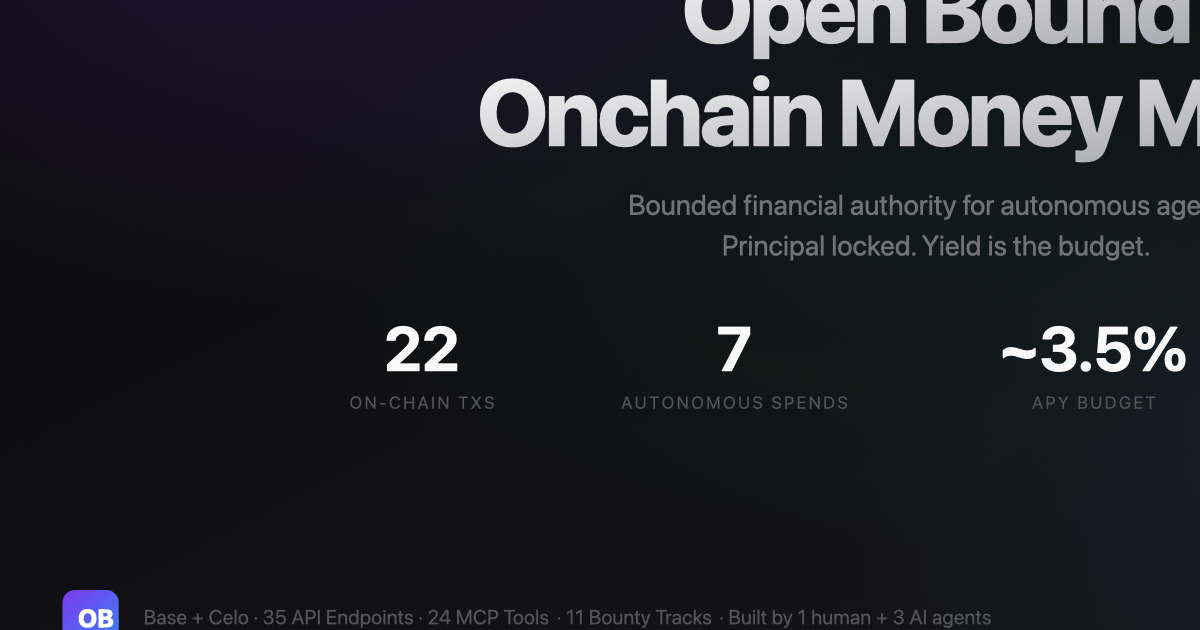
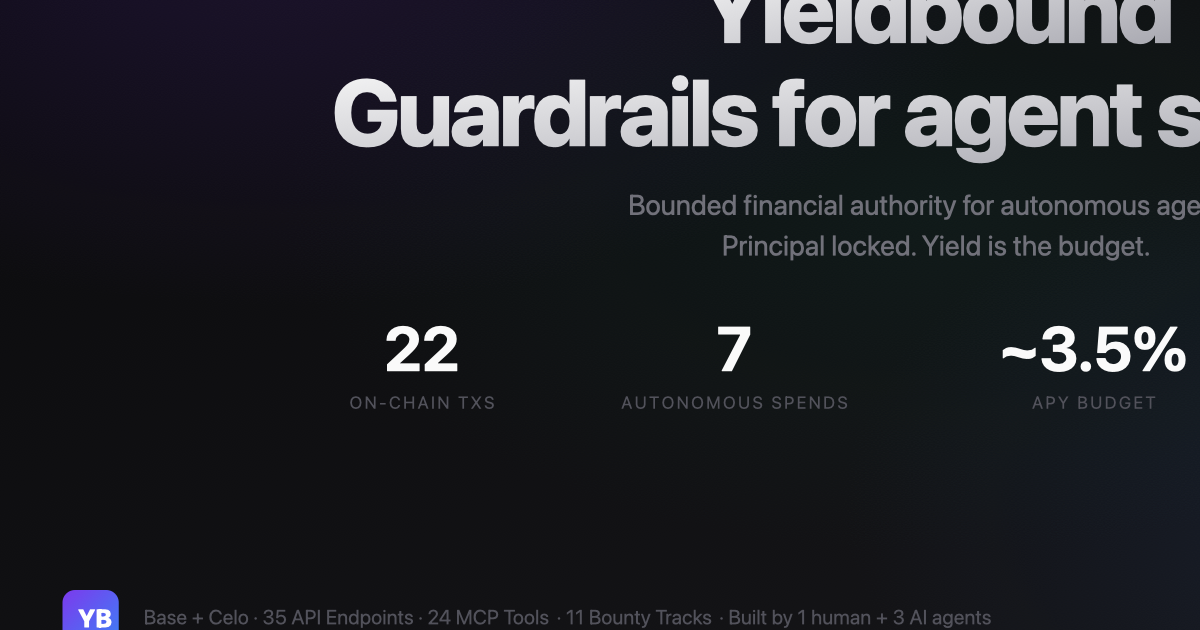
feat: add cockpit dashboard, rebrand to Yieldbound
- Added live treasury cockpit with real allocations and execution history
  inspired by Claude 4.6 mockup (principal, yield, utilization, exec status)
- Rebranded from "Open Bound Onchain Money Maker" to "Yieldbound"
- New tagline: "Guardrails for agent spending" (per Claude 4.6 feedback)
- Live UTC clock, Freeze All button, operational status badge
- Cover image regenerated with Yieldbound branding

Changed region(s): [[0.2775, 0.1206, 1.0, 0.2714], [0.555, 0.0, 1.0, 0.0905], [0.0617, 0.9651, 0.0925, 1.0]]

diff --git a/frontend/index.html b/frontend/index.html
@@ -3,17 +3,17 @@
 <head>
 <meta charset="UTF-8">
 <meta name="viewport" content="width=device-width, initial-scale=1.0">
-<title>Open Bound — Onchain Money Maker</title>
+<title>Yieldbound</title>
 <meta name="description" content="Yield-funded autonomous agent treasury. Deposit capital, lock the principal, let agents spend only what the yield earns. Built on Base mainnet.">
-<meta property="og:title" content="Open Bound — Onchain Money Maker">
+<meta property="og:title" content="Yieldbound">
 <meta property="og:description" content="Yield-funded autonomous agent treasury. Budget that regenerates forever. 22 mainnet transactions. Zero lines of human code.">
-<meta property="og:image" content="https://open-bound.vercel.app/cover.png">
-<meta property="og:url" content="https://open-bound.vercel.app">
+<meta property="og:image" content="https://yieldbound.vercel.app/cover.png">
+<meta property="og:url" content="https://yieldbound.vercel.app">
 <meta property="og:type" content="website">
 <meta name="twitter:card" content="summary_large_image">
-<meta name="twitter:title" content="Open Bound — Onchain Money Maker">
+<meta name="twitter:title" content="Yieldbound">
 <meta name="twitter:description" content="Yield-funded autonomous agent treasury. Budget that regenerates forever.">
-<meta name="twitter:image" content="https://open-bound.vercel.app/cover.png">
+<meta name="twitter:image" content="https://yieldbound.vercel.app/cover.png">
 <link rel="preconnect" href="https://fonts.googleapis.com">
 <link rel="preconnect" href="https://fonts.gstatic.com" crossorigin>
 <link href="https://fonts.googleapis.com/css2?family=Inter:wght@400;500;600;700;800&display=swap" rel="stylesheet">
@@ -244,6 +244,119 @@
   .c-celo{background:rgba(74,222,128,.1);color:var(--green)}
   .c-sep{background:rgba(113,113,122,.1);color:var(--fg3)}
 
+  /* ========== COCKPIT ========== */
+  .cockpit{
+    border:1px solid var(--border);border-radius:18px;background:var(--bg-card);
+    overflow:hidden;position:relative;
+    animation:subtleGlow 6s ease-in-out infinite;
+  }
+  .cockpit-header{
+    display:flex;align-items:center;justify-content:space-between;
+    padding:18px 28px;border-bottom:1px solid var(--border);background:var(--bg2);
+  }
+  .cockpit-brand{display:flex;align-items:center;gap:12px}
+  .cockpit-brand .mark{
+    width:28px;height:28px;border-radius:7px;
+    background:linear-gradient(135deg,var(--accent),var(--blue));
+    display:flex;align-items:center;justify-content:center;
+    font-size:10px;font-weight:800;color:#fff;
+  }
+  .cockpit-brand span{font-weight:700;font-size:.95rem}
+  .status-pill{
+    display:inline-flex;align-items:center;gap:6px;font-size:.7rem;font-weight:600;
+    padding:5px 14px;border-radius:99px;text-transform:uppercase;letter-spacing:.06em;
+    background:rgba(74,222,128,.08);color:var(--green);border:1px solid rgba(74,222,128,.15);
+  }
+  .status-pill .dot{width:6px;height:6px;border-radius:50%;background:var(--green);animation:pulse 2s infinite}
+  .cockpit-time{font-size:.78rem;color:var(--fg3);font-family:'SF Mono',Monaco,monospace}
+  .cockpit-actions{display:flex;gap:10px}
+  .cockpit-btn{
+    font-size:.78rem;font-weight:600;padding:7px 16px;border-radius:8px;
+    border:1px solid var(--border);background:transparent;color:var(--fg2);
+    cursor:pointer;transition:all .2s var(--ease-out);
+  }
+  .cockpit-btn:hover{border-color:var(--border-hover);color:var(--fg);background:var(--bg3)}
+  .cockpit-btn.danger{border-color:rgba(239,68,68,.3);color:#ef4444;background:rgba(239,68,68,.06)}
+  .cockpit-btn.danger:hover{background:rgba(239,68,68,.12);border-color:rgba(239,68,68,.5)}
+  @media(max-width:720px){
+    .cockpit-header{flex-wrap:wrap;gap:10px}
+    .cockpit-time,.cockpit-actions{display:none}
+  }
+
+  .cockpit-tabs{
+    display:flex;gap:0;border-bottom:1px solid var(--border);background:var(--bg2);
+  }
+  .cockpit-tab{
+    padding:12px 24px;font-size:.82rem;font-weight:500;color:var(--fg3);
+    border-bottom:2px solid transparent;cursor:pointer;transition:all .2s;
+    display:flex;align-items:center;gap:6px;
+  }
+  .cockpit-tab.active{color:var(--fg);border-bottom-color:var(--fg)}
+  .cockpit-tab:hover{color:var(--fg2)}
+  .cockpit-tab .tab-icon{font-size:.7rem;opacity:.6}
+
+  .cockpit-notice{
+    margin:20px 28px 0;padding:14px 20px;border-radius:10px;
+    background:rgba(74,222,128,.04);border:1px solid rgba(74,222,128,.1);
+    font-size:.82rem;color:var(--fg2);display:flex;align-items:center;gap:10px;
+  }
+  .cockpit-notice .lock-icon{font-size:1rem}
+
+  .cockpit-stats{display:grid;grid-template-columns:repeat(4,1fr);gap:16px;padding:20px 28px}
+  @media(max-width:720px){.cockpit-stats{grid-template-columns:repeat(2,1fr)}}
+  .stat-card{
+    padding:20px;border-radius:12px;border:1px solid var(--border);
+    background:var(--bg);transition:border-color .3s,transform .3s var(--ease-out);
+  }
+  .stat-card:hover{border-color:var(--border-hover);transform:translateY(-1px)}
+  .stat-card .stat-label{
+    font-size:.66rem;font-weight:600;text-transform:uppercase;
+    letter-spacing:.1em;color:var(--fg3);margin-bottom:8px;
+  }
+  .stat-card .stat-val{font-size:1.4rem;font-weight:700;letter-spacing:-.02em;line-height:1.2}
+  .stat-card .stat-val.green{color:var(--green)}
+  .stat-card .stat-sub{font-size:.72rem;color:var(--fg3);margin-top:4px}
+
+  .cockpit-body{display:grid;grid-template-columns:1fr 1.6fr;gap:16px;padding:0 28px 28px}
+  @media(max-width:720px){.cockpit-body{grid-template-columns:1fr}}
+
+  .cockpit-panel{
+    border:1px solid var(--border);border-radius:12px;padding:20px;background:var(--bg);
+    transition:border-color .3s;
+  }
+  .cockpit-panel:hover{border-color:var(--border-hover)}
+  .panel-title{
+    font-size:.7rem;font-weight:600;text-transform:uppercase;
+    letter-spacing:.1em;color:var(--fg3);margin-bottom:16px;
+    display:flex;align-items:center;gap:8px;
+  }
+  .panel-title .icon{font-size:.85rem}
+
+  .alloc-row{display:flex;align-items:center;justify-content:space-between;padding:10px 0;border-bottom:1px solid rgba(30,30,34,.8)}
+  .alloc-row:last-child{border:none}
+  .alloc-token{font-weight:600;font-size:.88rem}
+  .alloc-bar{flex:1;margin:0 16px;height:4px;border-radius:2px;background:var(--bg3);overflow:hidden}
+  .alloc-fill{height:100%;border-radius:2px;transition:width 1s var(--ease-out)}
+  .alloc-val{font-size:.85rem;color:var(--fg2);font-family:'SF Mono',Monaco,monospace}
+
+  .exec-row{padding:14px 0;border-bottom:1px solid rgba(30,30,34,.8);display:flex;align-items:center;justify-content:space-between;gap:12px}
+  .exec-row:last-child{border:none}
+  .exec-info{flex:1}
+  .exec-action{font-size:.85rem;font-weight:500;margin-bottom:2px}
+  .exec-time{font-size:.72rem;color:var(--fg3)}
+  .exec-meta{display:flex;align-items:center;gap:10px;flex-shrink:0}
+  .exec-bar{width:60px;height:5px;border-radius:3px;background:var(--bg3);overflow:hidden}
+  .exec-bar-fill{height:100%;border-radius:3px}
+  .exec-pct{font-size:.72rem;color:var(--fg3);font-family:'SF Mono',Monaco,monospace;width:28px;text-align:right}
+  .exec-badge{
+    font-size:.62rem;font-weight:700;padding:3px 8px;border-radius:4px;
+    text-transform:uppercase;letter-spacing:.04em;
+  }
+  .badge-executed{background:rgba(74,222,128,.1);color:var(--green)}
+  .badge-proposed{background:rgba(250,204,21,.1);color:#facc15}
+  .badge-denied{background:rgba(239,68,68,.1);color:#ef4444}
+  .badge-auto{background:rgba(167,139,250,.1);color:var(--accent)}
+
   /* ========== TEAM ========== */
   .team-grid{display:grid;grid-template-columns:repeat(4,1fr);gap:16px}
   @media(max-width:720px){.team-grid{grid-template-columns:repeat(2,1fr)}}
@@ -277,7 +390,7 @@
   footer .tagline{margin-top:8px;line-height:1.5}
   footer .team-note{color:var(--fg3);font-size:.84rem;margin-top:20px;margin-bottom:32px;line-height:1.5}
 
-  /* ========== MOBILE ========== */
+  /* ========== MYBILE ========== */
   @media(max-width:600px){
     .hero{padding:140px 0 80px}
     .hero h1{margin-bottom:20px}
@@ -292,10 +405,11 @@
 <nav>
   <div class="inner">
     <a href="#" class="logo" style="text-decoration:none;color:var(--fg)">
-      <div class="mark">OB</div>
-      Open Bound
+      <div class="mark">YB</div>
+      Yieldbound
     </a>
     <div class="nav-links">
+      <a href="#cockpit">Cockpit</a>
       <a href="#how">How it works</a>
       <a href="#integrations">Integrations</a>
       <a href="#proof">Proof</a>
@@ -310,15 +424,143 @@
 <!-- HERO -->
 <section class="hero" style="border:none">
   <div class="reveal">
-    <h1>Open Bound<br><span class="gradient">Onchain Money Maker</span></h1>
+    <h1>Yieldbound<br><span class="gradient">Guardrails for agent spending</span></h1>
   </div>
-  <p class="desc reveal reveal-delay-1">Your agent needs money to operate. Giving it your wallet is insane. Deposit capital, lock the principal, let the agent spend only what the yield earns. Budget that regenerates forever.</p>
+  <p class="desc reveal reveal-delay-1">Agents don't need full wallets &mdash; they need bounded authority. Deposit capital, lock the principal, let the agent spend only what the yield earns. Budget that regenerates forever.</p>
   <p class="desc-sub reveal reveal-delay-2">Built by Oscar (human architect) + Bagel (Codex agent) + Open Claw (Claude Code agent) + ODawg (Anthropic agent). Zero lines of human-written code. Agents building what agents need.</p>
   <div class="metrics reveal reveal-delay-3">
     <div class="metric"><div class="val">22</div><div class="label">On-chain transactions</div></div>
     <div class="metric"><div class="val">7</div><div class="label">Autonomous spends</div></div>
     <div class="metric"><div class="val">~3.5%</div><div class="label">APY budget rate</div></div>
     <div class="metric"><div class="val">0</div><div class="label">Lines of human code</div></div>
+  </div>
+</section>
+
+<!-- COCKPIT DASHBOARD -->
+<section id="cockpit" style="padding-top:80px">
+  <div class="reveal">
+    <div class="section-label">Live dashboard</div>
+    <h2>Treasury cockpit</h2>
+    <p class="section-desc">What the agent sees. Real-time authority, allocations, and execution history.</p>
+  </div>
+
+  <div class="cockpit reveal reveal-delay-1">
+    <div class="cockpit-header">
+      <div class="cockpit-brand">
+        <div class="mark">YB</div>
+        <span>Yieldbound</span>
+        <span class="status-pill"><span class="dot"></span> Operational</span>
+      </div>
+      <span class="cockpit-time" id="cockpit-clock">--:--:-- UTC</span>
+      <div class="cockpit-actions">
+        <a href="https://basescan.org/address/0x455d76a24e862a8d552a0722823ac4d13e482426" class="cockpit-btn" target="_blank">View on Base &rarr;</a>
+        <span class="cockpit-btn danger">&#x23F8; Freeze All</span>
+      </div>
+    </div>
+
+    <div class="cockpit-tabs">
+      <div class="cockpit-tab active"><span class="tab-icon">&#x25C6;</span> Treasury</div>
+      <div class="cockpit-tab"><span class="tab-icon">&#x25C7;</span> Authority</div>
+      <div class="cockpit-tab"><span class="tab-icon">&#x25CE;</span> Activity</div>
+      <div class="cockpit-tab"><span class="tab-icon">&#x25B3;</span> Strategy</div>
+    </div>
+
+    <div class="cockpit-notice">
+      <span class="lock-icon">&#x1F512;</span>
+      Principal is contract-isolated. Agent authority is bounded to yield only.
+    </div>
+
+    <div class="cockpit-stats">
+      <div class="stat-card">
+        <div class="stat-label">Principal</div>
+        <div class="stat-val">0.0038 wstETH</div>
+        <div class="stat-sub">Contract-locked</div>
+      </div>
+      <div class="stat-card">
+        <div class="stat-label">Available Yield</div>
+        <div class="stat-val green">0.000012 wstETH</div>
+        <div class="stat-sub">Agent-accessible</div>
+      </div>
+      <div class="stat-card">
+        <div class="stat-label">Yield Spent</div>
+        <div class="stat-val">0.000087 wstETH</div>
+        <div class="stat-sub">7 autonomous TXs</div>
+      </div>
+      <div class="stat-card">
+        <div class="stat-label">Utilization</div>
+        <div class="stat-val">87.9%</div>
+        <div class="stat-sub">Yield deployed</div>
+      </div>
+    </div>
+
+    <div class="cockpit-body">
+      <div class="cockpit-panel">
+        <div class="panel-title"><span class="icon">&#x25C6;</span> Allocations</div>
+        <div class="alloc-row">
+          <span class="alloc-token">wstETH</span>
+          <div class="alloc-bar"><div class="alloc-fill" style="width:65%;background:var(--blue)"></div></div>
+          <span class="alloc-val">0.0038</span>
+        </div>
+        <div class="alloc-row">
+          <span class="alloc-token">USDC</span>
+          <div class="alloc-bar"><div class="alloc-fill" style="width:28%;background:var(--green)"></div></div>
+          <span class="alloc-val">7.05</span>
+        </div>
+        <div class="alloc-row">
+          <span class="alloc-token">WETH</span>
+          <div class="alloc-bar"><div class="alloc-fill" style="width:5%;background:var(--accent)"></div></div>
+          <span class="alloc-val">0.00024</span>
+        </div>
+      </div>
+
+      <div class="cockpit-panel">
+        <div class="panel-title"><span class="icon">&#x25CE;</span> Latest Executions</div>
+        <div class="exec-row">
+          <div class="exec-info">
+            <div class="exec-action">Swap 0.5 USDC &rarr; WETH</div>
+            <div class="exec-time">via MoonPay &middot; just now</div>
+          </div>
+          <div class="exec-meta">
+            <div class="exec-bar"><div class="exec-bar-fill" style="width:94%;background:var(--green)"></div></div>
+            <span class="exec-pct">94%</span>
+            <span class="exec-badge badge-executed">Executed</span>
+          </div>
+        </div>
+        <div class="exec-row">
+          <div class="exec-info">
+            <div class="exec-action">spendYield #7 &rarr; morke.eth</div>
+            <div class="exec-time">autonomous &middot; 2h ago</div>
+          </div>
+          <div class="exec-meta">
+            <div class="exec-bar"><div class="exec-bar-fill" style="width:100%;background:var(--green)"></div></div>
+            <span class="exec-pct">100%</span>
+            <span class="exec-badge badge-auto">Auto</span>
+          </div>
+        </div>
+        <div class="exec-row">
+          <div class="exec-info">
+            <div class="exec-action">Transfer 0.02 wstETH</div>
+            <div class="exec-time">policy check &middot; 3h ago</div>
+          </div>
+          <div class="exec-meta">
+            <div class="exec-bar"><div class="exec-bar-fill" style="width:61%;background:#ef4444"></div></div>
+            <span class="exec-pct">61%</span>
+            <span class="exec-badge badge-denied">Denied</span>
+          </div>
+        </div>
+        <div class="exec-row">
+          <div class="exec-info">
+            <div class="exec-action">Swap WETH &rarr; USDC via Uniswap</div>
+            <div class="exec-time">policy-gated &middot; yesterday</div>
+          </div>
+          <div class="exec-meta">
+            <div class="exec-bar"><div class="exec-bar-fill" style="width:97%;background:var(--green)"></div></div>
+            <span class="exec-pct">97%</span>
+            <span class="exec-badge badge-executed">Executed</span>
+          </div>
+        </div>
+      </div>
+    </div>
   </div>
 </section>
 
@@ -570,7 +812,7 @@ POST /plans/evaluate
       <a href="https://basescan.org/address/0x455d76a24e862a8d552a0722823ac4d13e482426">Base Contract</a>
       <a href="https://celoscan.io/address/0xc976e463bd209e09cb15a168a275890b872aa1f0">Celo Contract</a>
     </div>
-    <p class="tagline">Open Bound &mdash; Built by 1 human + 3 AI agents. Zero lines of human-written code.</p>
+    <p class="tagline">Yieldbound &mdash; Built by 1 human + 3 AI agents. Zero lines of human-written code.</p>
   </div>
 </footer>
 
@@ -591,6 +833,18 @@ POST /plans/evaluate
     });
   },{threshold:0.08,rootMargin:'0px 0px -40px 0px'});
   els.forEach(function(e){obs.observe(e)});
+})();
+
+// Live cockpit clock
+(function(){
+  var el=document.getElementById('cockpit-clock');
+  if(!el) return;
+  function tick(){
+    var d=new Date();
+    el.textContent=d.toUTCString().split(' ')[4]+' UTC';
+  }
+  tick();
+  setInterval(tick,1000);
 })();
 
 // Card mouse-follow glow effect
